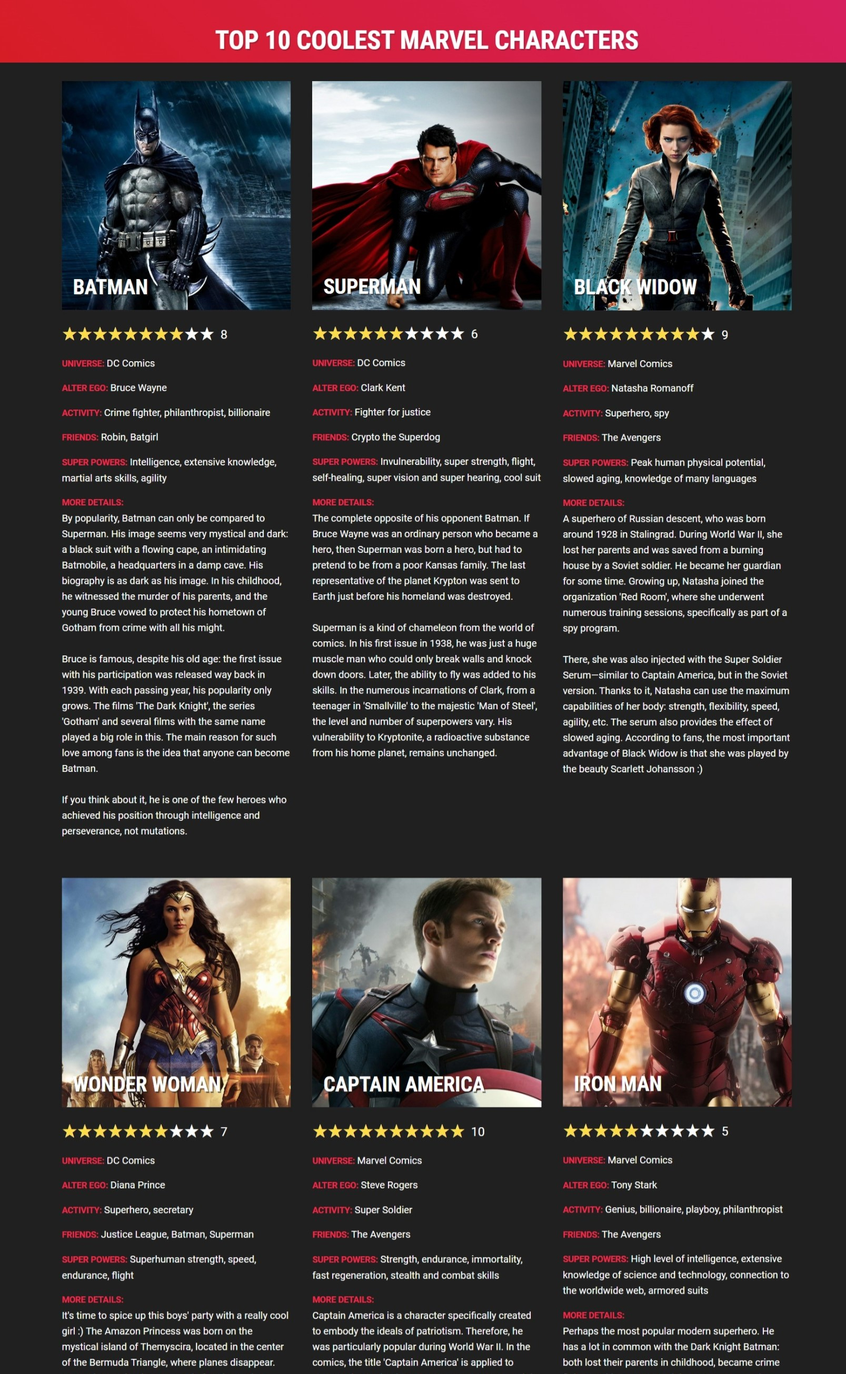
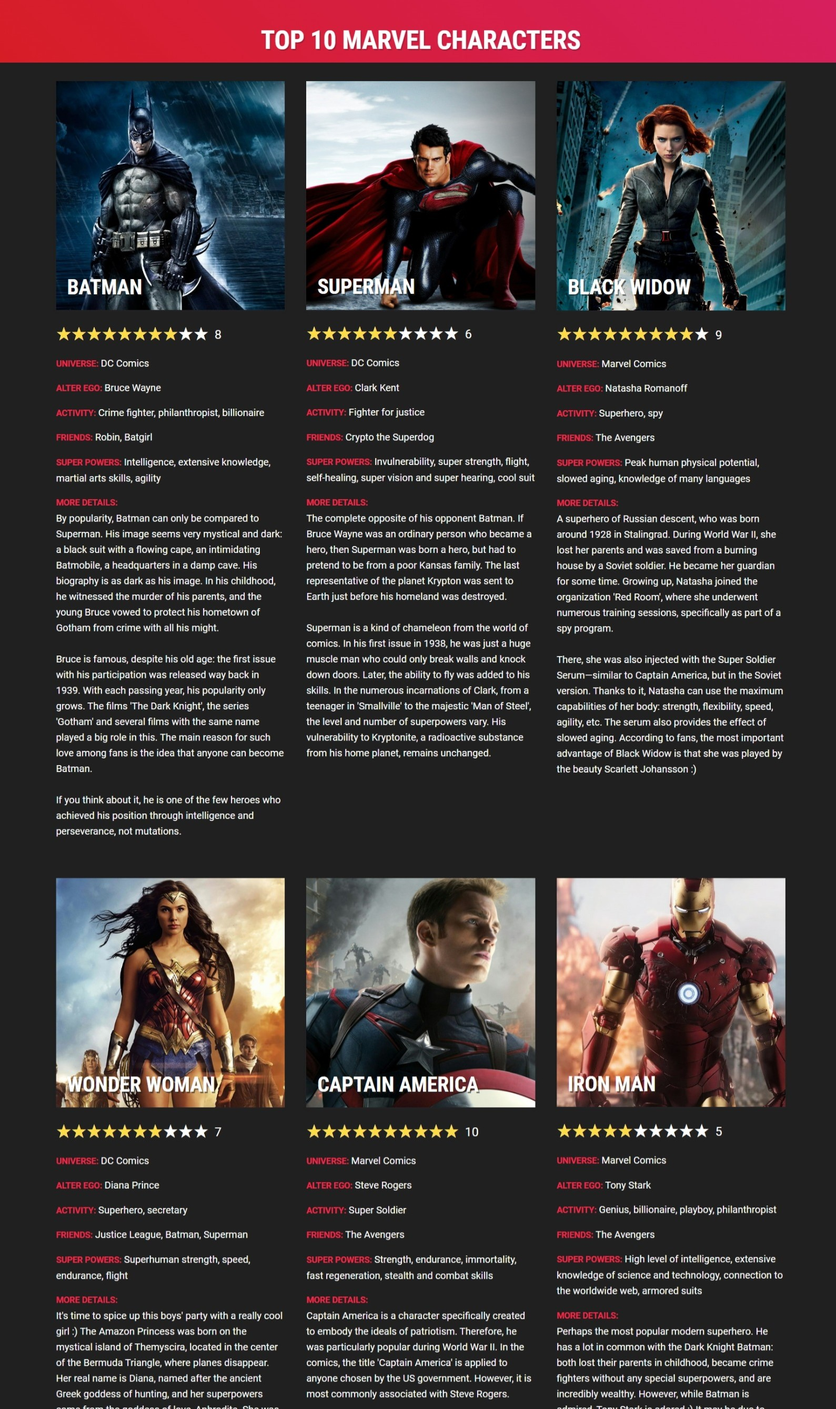
run code through submit check list

Changed region(s): [[0.0617, 0.0, 0.9559, 1.0]]

diff --git a/assets/js/script.js b/assets/js/script.js
@@ -1,114 +1,125 @@
 "use strict";
 
 //JSON WITH INFORMATION ABOUT CHARACTERS
-let json = `[{
-  "name": "Batman",
-  "id": "batman",
-  "image": "assets/img/batman.jpg",
-  "universe": "DC Comics",
-  "alterego": "Bruce Wayne",
-  "activity": "Crime fighter, philanthropist, billionaire",
-  "friends": "Robin, Batgirl",
-  "superpowers": "Intelligence, extensive knowledge, martial arts skills, agility",
-  "moreinfo": "<br>By popularity, Batman can only be compared to Superman. His image seems very mystical and dark: a black suit with a flowing cape, an intimidating Batmobile, a headquarters in a damp cave. His biography is as dark as his image. In his childhood, he witnessed the murder of his parents, and the young Bruce vowed to protect his hometown of Gotham from crime with all his might. <br><br>Bruce is famous, despite his old age: the first issue with his participation was released way back in 1939. With each passing year, his popularity only grows. The films 'The Dark Knight', the series 'Gotham' and several films with the same name played a big role in this. The main reason for such love among fans is the idea that anyone can become Batman. <br><br>If you think about it, he is one of the few heroes who achieved his position through intelligence and perseverance, not mutations."
-  },{
-  "name": "Superman",
-  "id": "superman",
-  "image": "assets/img/superman.jpg",
-  "universe": "DC Comics",
-  "alterego": "Clark Kent",
-  "activity": "Fighter for justice",
-  "friends": "Crypto the Superdog",
-  "superpowers": "Invulnerability, super strength, flight, self-healing, super vision and super hearing, cool suit",
-  "moreinfo": "<br>The complete opposite of his opponent Batman. If Bruce Wayne was an ordinary person who became a hero, then Superman was born a hero, but had to pretend to be from a poor Kansas family. The last representative of the planet Krypton was sent to Earth just before his homeland was destroyed. <br><br>Superman is a kind of chameleon from the world of comics. In his first issue in 1938, he was just a huge muscle man who could only break walls and knock down doors. Later, the ability to fly was added to his skills. In the numerous incarnations of Clark, from a teenager in 'Smallville' to the majestic 'Man of Steel', the level and number of superpowers vary. His vulnerability to Kryptonite, a radioactive substance from his home planet, remains unchanged."
-  },{
-  "name": "Black Widow",
-  "id": "blackwidow",
-  "image": "assets/img/blackwidow.jpg",
-  "universe": "Marvel Comics",
-  "alterego": "Natasha Romanoff",
-  "activity": "Superhero, spy",
-  "friends": "The Avengers",
-  "superpowers": "Peak human physical potential, slowed aging, knowledge of many languages",
-  "moreinfo": "<br>A superhero of Russian descent, who was born around 1928 in Stalingrad. During World War II, she lost her parents and was saved from a burning house by a Soviet soldier. He became her guardian for some time. Growing up, Natasha joined the organization 'Red Room', where she underwent numerous training sessions, specifically as part of a spy program. <br><br>There, she was also injected with the Super Soldier Serum—similar to Captain America, but in the Soviet version. Thanks to it, Natasha can use the maximum capabilities of her body: strength, flexibility, speed, agility, etc. The serum also provides the effect of slowed aging. According to fans, the most important advantage of Black Widow is that she was played by the beauty Scarlett Johansson :)"
-  },{
-  "name": "Wonder Woman",
-  "id": "wonderwoman",
-  "image": "assets/img/wonderwoman.jpg",
-  "universe": "DC Comics",
-  "alterego": "Diana Prince",
-  "activity": "Superhero, secretary",
-  "friends": "Justice League, Batman, Superman",
-  "superpowers": "Superhuman strength, speed, endurance, flight",
-  "moreinfo": "<br>It's time to spice up this boys' party with a really cool girl :) The Amazon Princess was born on the mystical island of Themyscira, located in the center of the Bermuda Triangle, where planes disappear. Her real name is Diana, named after the ancient Greek goddess of hunting, and her superpowers come from the goddess of love, Aphrodite. She was raised in an all-female society, which is why Wonder Woman often appears in culture as a symbol of feminism. <br><br>Diana has super gear: the lasso of truth and the tiara. The first one was forged by the god of fire, Hephaestus, and it never misses. Anyone caught in its loop will inevitably reveal their secrets, remember forgotten things, and even obey commands. The tiara works as a throwing weapon capable of cutting through anything. The crown with a star in the center symbolizes the patriotism of the American heroine and serves as a stylish accessory :)"
-},{
-  "name": "Captain America",
-  "id": "captainamerica",
-  "image": "assets/img/captainamerica.jpg",
-  "universe": "Marvel Comics",
-  "alterego": "Steve Rogers",
-  "activity": "Super Soldier",
-  "friends": "The Avengers",
-  "superpowers": "Strength, endurance, immortality, fast regeneration, stealth and combat skills",
-  "moreinfo": "<br>Captain America is a character specifically created to embody the ideals of patriotism. Therefore, he was particularly popular during World War II. In the comics, the title 'Captain America' is applied to anyone chosen by the US government. However, it is most commonly associated with Steve Rogers. <br><br>Steve was born in 1917 to Irish immigrants Sarah and Joseph Rogers. In his youth, he was very weak and constantly subjected to ridicule by other boys. His Irish roots prevented him from getting into fights. At the beginning of World War II, Steve aspired to join the front lines, but due to his health, he was rejected. <br><br>By fate, he was offered to participate in a top-secret defense project aimed at creating super soldiers. Despite the difficulties during the experiment, the result was successful. Rogers transformed from a frail young man into a true Apollo. Actor Chris Evans did a great job with this role :)"
-},{
-  "name": "Iron Man",
-  "id": "ironman",
-  "image": "assets/img/ironman.jpg",
-  "universe": "Marvel Comics",
-  "alterego": "Tony Stark",
-  "activity": "Genius, billionaire, playboy, philanthropist",
-  "friends": "The Avengers",
-  "superpowers": "High level of intelligence, extensive knowledge of science and technology, connection to the worldwide web, armored suits",
-  "moreinfo": "<br>Perhaps the most popular modern superhero. He has a lot in common with the Dark Knight Batman: both lost their parents in childhood, became crime fighters without any special superpowers, and are incredibly wealthy. However, while Batman is admired, Tony Stark is adored :) It may be due to Robert Downey Jr.'s brilliant acting, who won the role over Nicolas Cage and Tom Cruise, or it may be due to the well-developed character. <br><br>The prototype for the character was Elon Musk and the inventor Howard Hughes. <br><br>Iron Man didn't always wear a red fashionable suit: in its early versions in 1963, it was modestly gray. Unfortunately, in the movie adaptation, the armor was not even made of metal - it was made of plastic and fiberglass."
-},{
-  "name": "Hulk",
-  "id": "hulk",
-  "image": "assets/img/hulk.jpg",
-  "universe": "Marvel Comics",
-  "alterego": "Bruce Banner",
-  "activity": "Superhero, fighter for justice, biochemist",
-  "friends": "The Avengers",
-  "superpowers": "Superhuman strength, speed, endurance, and flight",
-  "moreinfo": "<br>The idea of creating Hulk as a character can be attributed to the science fiction novella 'Strange Case of Dr Jekyll and Mr Hyde', in which a scientist cannot reconcile with his demonic alter ego. Hulk's past is as bad as it gets: Bruce's father suffered from alcoholism and bouts of rage, while his mother tried her best to protect her son from her husband's anger. She died defending her only child from his beatings. <br><br>Carrying the heavy psychological burden throughout his childhood, Bruce grew up as an extremely gifted but introverted young man. Although Bruce couldn't respect his father, he followed in his footsteps in the field of science and chose nuclear physics. During an experiment, he injected himself with a trial serum and exposed himself to a large amount of gamma radiation. Banner transformed into an uncontrollable giant with bulging muscles, smashing everything around him and not understanding what was happening. Thus, the name Hulk became synonymous with people who cannot control themselves."
-},{
-  "name": "Тор",
-  "id": "thor",
-  "image": "assets/img/thor.jpg",
-  "universe": "Marvel Comics",
-  "alterego": "Нет; полное имя — Тор Одинсон",
-  "activity": "Борец за справедливость, скандинавский бог",
-  "friends": "Мстители",
-  "superpowers": "Все, что может бог, плюс молот Мьелнир",
-  "moreinfo": "<br>Персонаж Тора основан на образе одноименного скандинавского бога. Тор во вселенной Marvel — родной сын Одина и древнейшей богини Геи. После рождения сына Один забрал его в Асгард, где растил вместе со своей женой, богиней Фригг. Последнюю Тор всегда считал своей настоящей матерью и лишь много позже узнал правду о своем рождении. <br><br>Стоит сказать, что до нынешнего Тора в исполнении Криса Хемсворта у супергероя было несколько воплощений. В одном из них он погиб в схватке с мифическим змеем Мидгардом. Это привело к Рагнареку — некоему апокалипсису в скандинавской мифологии."
-},{
-  "name": "Дэдпул",
-  "id": "deadpool",
-  "image": "assets/img/deadpool.jpg",
-  "universe": "Marvel Comics",
-  "alterego": "Уэйд Уинстон Уилсон",
-  "activity": "Антигерой, наемник",
-  "friends": "Частично Мстители, Человек-паук, Росомаха",
-  "superpowers": "Высокий болевой порог, регенерация и бессмертие, сверхчеловеческая иммунная система",
-  "moreinfo": "<br>Как и Росомаха из Людей Икс, Дэдпул был подвергнут опытам по программе «Оружие Икс». Ученые попытались исцелить его рак, привив его клеткам способность к регенерации. Как и всегда в комиксах, что-то пошло не так, и Дэдпул остался изуродованным и психически нестабильным. <br><br>Это единственный супергерой из списка, который однозначно не на стороне добра. Дэдпул наслаждается насилием. Первоначально появившись в основной Вселенной Marvel, он получил альтернативные варианты в других реальностях Мультивселенной. Что оставалось неизменным — его циничное, черное чувство юмора: за него Дэдпула прозвали «Болтливым наемником»."
-},{
-  "name": "Человек-паук",
-  "id": "spiderman",
-  "image": "assets/img/spiderman.jpg",
-  "universe": "Marvel Comics",
-  "alterego": "Питер Паркер",
-  "activity": "Борец за справедливость, студент, фотограф",
-  "friends": "Мстители, Фантастическая четверка, Люди Икс",
-  "superpowers": "Сверхчеловеческие рефлексы, «паучье чутье», способность прилепляться к твердым поверхностям, производство паутины",
-  "moreinfo": "<br>Человек-паук родился от потребности Marvel Comics создать героя-подростка. Другие супергерои вроде Бэтмена и Супермена — взрослые мужчины, и целевая аудитория не видела в них примеры для подражания. Пятнадцатилетний Питер Паркер дал понять всем тинейджерам Земли, что можно и злодеев уничтожить, и на красавице жениться. Для этого даже не обязательно быть суперкрасавчиком! Всего лишь нужен укус паучка:). <br><br>Питер не сразу использовал свои силы во благо людей: изначально он хотел делать на них деньги, участвуя в нелегальных боях без правил. Затем его любимый дядя Бен умер от рук грабителя, и подросток поклялся, что очистит свой родной Нью-Йорк ото зла. Однако спустя время подросток понял, что одной клятвы недостаточно и что «с великой силой приходит великая ответственность». <br><br>Кстати, не все суперсилы у Питера появились за счет мутации: парень самостоятельно взломал технологию Тони Старка, после чего заслужил его признание."
-}]`;
+let json = `[
+  {
+    "name": "Batman",
+    "id": "batman",
+    "image": "assets/img/batman.jpg",
+    "universe": "DC Comics",
+    "alterego": "Bruce Wayne",
+    "activity": "Crime fighter, philanthropist, billionaire",
+    "friends": "Robin, Batgirl",
+    "superpowers": "Intelligence, extensive knowledge, martial arts skills, agility",
+    "moreinfo": "<br>By popularity, Batman can only be compared to Superman. His image seems very mystical and dark: a black suit with a flowing cape, an intimidating Batmobile, a headquarters in a damp cave. His biography is as dark as his image. In his childhood, he witnessed the murder of his parents, and the young Bruce vowed to protect his hometown of Gotham from crime with all his might. <br><br>Bruce is famous, despite his old age: the first issue with his participation was released way back in 1939. With each passing year, his popularity only grows. The films 'The Dark Knight', the series 'Gotham' and several films with the same name played a big role in this. The main reason for such love among fans is the idea that anyone can become Batman. <br><br>If you think about it, he is one of the few heroes who achieved his position through intelligence and perseverance, not mutations."
+  },
+  {
+    "name": "Superman",
+    "id": "superman",
+    "image": "assets/img/superman.jpg",
+    "universe": "DC Comics",
+    "alterego": "Clark Kent",
+    "activity": "Fighter for justice",
+    "friends": "Crypto the Superdog",
+    "superpowers": "Invulnerability, super strength, flight, self-healing, super vision and super hearing, cool suit",
+    "moreinfo": "<br>The complete opposite of his opponent Batman. If Bruce Wayne was an ordinary person who became a hero, then Superman was born a hero, but had to pretend to be from a poor Kansas family. The last representative of the planet Krypton was sent to Earth just before his homeland was destroyed. <br><br>Superman is a kind of chameleon from the world of comics. In his first issue in 1938, he was just a huge muscle man who could only break walls and knock down doors. Later, the ability to fly was added to his skills. In the numerous incarnations of Clark, from a teenager in 'Smallville' to the majestic 'Man of Steel', the level and number of superpowers vary. His vulnerability to Kryptonite, a radioactive substance from his home planet, remains unchanged."
+  },
+  {
+    "name": "Black Widow",
+    "id": "blackwidow",
+    "image": "assets/img/blackwidow.jpg",
+    "universe": "Marvel Comics",
+    "alterego": "Natasha Romanoff",
+    "activity": "Superhero, spy",
+    "friends": "The Avengers",
+    "superpowers": "Peak human physical potential, slowed aging, knowledge of many languages",
+    "moreinfo": "<br>A superhero of Russian descent, who was born around 1928 in Stalingrad. During World War II, she lost her parents and was saved from a burning house by a Soviet soldier. He became her guardian for some time. Growing up, Natasha joined the organization 'Red Room', where she underwent numerous training sessions, specifically as part of a spy program. <br><br>There, she was also injected with the Super Soldier Serum—similar to Captain America, but in the Soviet version. Thanks to it, Natasha can use the maximum capabilities of her body: strength, flexibility, speed, agility, etc. The serum also provides the effect of slowed aging. According to fans, the most important advantage of Black Widow is that she was played by the beauty Scarlett Johansson :)"
+  },
+  {
+    "name": "Wonder Woman",
+    "id": "wonderwoman",
+    "image": "assets/img/wonderwoman.jpg",
+    "universe": "DC Comics",
+    "alterego": "Diana Prince",
+    "activity": "Superhero, secretary",
+    "friends": "Justice League, Batman, Superman",
+    "superpowers": "Superhuman strength, speed, endurance, flight",
+    "moreinfo": "<br>It's time to spice up this boys' party with a really cool girl :) The Amazon Princess was born on the mystical island of Themyscira, located in the center of the Bermuda Triangle, where planes disappear. Her real name is Diana, named after the ancient Greek goddess of hunting, and her superpowers come from the goddess of love, Aphrodite. She was raised in an all-female society, which is why Wonder Woman often appears in culture as a symbol of feminism. <br><br>Diana has super gear: the lasso of truth and the tiara. The first one was forged by the god of fire, Hephaestus, and it never misses. Anyone caught in its loop will inevitably reveal their secrets, remember forgotten things, and even obey commands. The tiara works as a throwing weapon capable of cutting through anything. The crown with a star in the center symbolizes the patriotism of the American heroine and serves as a stylish accessory :)"
+  },
+  {
+    "name": "Captain America",
+    "id": "captainamerica",
+    "image": "assets/img/captainamerica.jpg",
+    "universe": "Marvel Comics",
+    "alterego": "Steve Rogers",
+    "activity": "Super Soldier",
+    "friends": "The Avengers",
+    "superpowers": "Strength, endurance, immortality, fast regeneration, stealth and combat skills",
+    "moreinfo": "<br>Captain America is a character specifically created to embody the ideals of patriotism. Therefore, he was particularly popular during World War II. In the comics, the title 'Captain America' is applied to anyone chosen by the US government. However, it is most commonly associated with Steve Rogers. <br><br>Steve was born in 1917 to Irish immigrants Sarah and Joseph Rogers. In his youth, he was very weak and constantly subjected to ridicule by other boys. His Irish roots prevented him from getting into fights. At the beginning of World War II, Steve aspired to join the front lines, but due to his health, he was rejected. <br><br>By fate, he was offered to participate in a top-secret defense project aimed at creating super soldiers. Despite the difficulties during the experiment, the result was successful. Rogers transformed from a frail young man into a true Apollo. Actor Chris Evans did a great job with this role :)"
+  },
+  {
+    "name": "Iron Man",
+    "id": "ironman",
+    "image": "assets/img/ironman.jpg",
+    "universe": "Marvel Comics",
+    "alterego": "Tony Stark",
+    "activity": "Genius, billionaire, playboy, philanthropist",
+    "friends": "The Avengers",
+    "superpowers": "High level of intelligence, extensive knowledge of science and technology, connection to the worldwide web, armored suits",
+    "moreinfo": "<br>Perhaps the most popular modern superhero. He has a lot in common with the Dark Knight Batman: both lost their parents in childhood, became crime fighters without any special superpowers, and are incredibly wealthy. However, while Batman is admired, Tony Stark is adored :) It may be due to Robert Downey Jr.'s brilliant acting, who won the role over Nicolas Cage and Tom Cruise, or it may be due to the well-developed character. <br><br>The prototype for the character was Elon Musk and the inventor Howard Hughes. <br><br>Iron Man didn't always wear a red fashionable suit: in its early versions in 1963, it was modestly gray. Unfortunately, in the movie adaptation, the armor was not even made of metal - it was made of plastic and fiberglass."
+  },
+  {
+    "name": "Hulk",
+    "id": "hulk",
+    "image": "assets/img/hulk.jpg",
+    "universe": "Marvel Comics",
+    "alterego": "Bruce Banner",
+    "activity": "Superhero, fighter for justice, biochemist",
+    "friends": "The Avengers",
+    "superpowers": "Superhuman strength, speed, endurance, and flight",
+    "moreinfo": "<br>The idea of creating Hulk as a character can be attributed to the science fiction novella 'Strange Case of Dr Jekyll and Mr Hyde', in which a scientist cannot reconcile with his demonic alter ego. Hulk's past is as bad as it gets: Bruce's father suffered from alcoholism and bouts of rage, while his mother tried her best to protect her son from her husband's anger. She died defending her only child from his beatings. <br><br>Carrying the heavy psychological burden throughout his childhood, Bruce grew up as an extremely gifted but introverted young man. Although Bruce couldn't respect his father, he followed in his footsteps in the field of science and chose nuclear physics. During an experiment, he injected himself with a trial serum and exposed himself to a large amount of gamma radiation. Banner transformed into an uncontrollable giant with bulging muscles, smashing everything around him and not understanding what was happening. Thus, the name Hulk became synonymous with people who cannot control themselves."
+  },
+  {
+    "name": "Thor",
+    "id": "thor",
+    "image": "assets/img/thor.jpg",
+    "universe": "Marvel Comics",
+    "alterego": "None; full name - Thor Odinson",
+    "activity": "Fighter for justice, Scandinavian god",
+    "friends": "Avengers",
+    "superpowers": "Everything a god can do, plus Mjolnir hammer",
+    "moreinfo": "<br>The character of Thor is based on the image of the Scandinavian god of the same name. Thor in the Marvel universe is the native son of Odin and the ancient goddess Gaea. After the birth of his son, Odin took him to Asgard, where he was raised with his wife, the goddess Frigga. Thor always considered her his real mother and only much later learned the truth about his birth. <br><br>It is worth mentioning that before the current Thor played by Chris Hemsworth, there were several incarnations of the superhero. In one of them, he died in a battle with the mythical serpent Midgard. This led to Ragnarok - a kind of apocalypse in Norse mythology."
+  },
+  {
+    "name": "Deadpool",
+    "id": "deadpool",
+    "image": "assets/img/deadpool.jpg",
+    "universe": "Marvel Comics",
+    "alterego": "Wade Winston Wilson",
+    "activity": "Anti-hero, mercenary",
+    "friends": "Partially Avengers, Spider-Man, Wolverine",
+    "superpowers": "High pain threshold, regeneration and immortality, superhuman immune system",
+    "moreinfo": "<br>Like Wolverine from the X-Men, Deadpool was subjected to experiments as part of the 'Weapon X' program. Scientists tried to cure his cancer by giving his cells the ability to regenerate. As always in the comics, something went wrong, and Deadpool was left disfigured and mentally unstable. <br><br>He is the only superhero on the list who is definitely not on the side of good. Deadpool enjoys violence. Initially appearing in the mainstream Marvel Universe, he got alternative versions in other Multiverse realities. What remained unchanged was his cynical, dark sense of humor: for this, Deadpool was nicknamed 'The Merc with a Mouth'."
+  },
+  {
+    "name": "Spider-Man",
+    "id": "spiderman",
+    "image": "assets/img/spiderman.jpg",
+    "universe": "Marvel Comics",
+    "alterego": "Peter Parker",
+    "activity": "Fighter for justice, student, photographer",
+    "friends": "Avengers, Fantastic Four, X-Men",
+    "superpowers": "Superhuman reflexes, 'spider-sense', ability to stick to solid surfaces, web production",
+    "moreinfo": "<br>Spider-Man was born out of the need for Marvel Comics to create a teenage hero. Other superheroes like Batman and Superman are adult men, and the target audience did not see them as role models. Fifteen-year-old Peter Parker made it clear to all teenagers on Earth that they could both defeat villains and marry a beauty. You don't even have to be super handsome! You just need a spider bite:). <br><br>Peter didn't immediately use his powers for good: initially, he wanted to make money by participating in illegal no-rules fights. Then his beloved Uncle Ben died at the hands of a robber, and the teenager vowed to rid his native New York of evil. However, over time, the teenager realized that one oath was not enough and that 'with great power comes great responsibility'. <br><br>By the way, not all of Peter's superpowers came from mutation: the guy independently hacked Tony Stark's technology, after which he earned his recognition."
+  }
+]`;
 
 //CREATING CHARACTER CARD (on page load)
 document.addEventListener("DOMContentLoaded", function () {
   let characters = JSON.parse(json);
   let charactersContent = "";
 
-  for (let character of characters) {
+  for (const character of characters) {
     charactersContent += `<div class="character__item">
                 <img class="character__image" src="${character.image}" alt="${character.id}"></img>
                 <h2 class="character__name" id="${character.id}">${character.name}</h2>
@@ -217,7 +228,7 @@ document.addEventListener("DOMContentLoaded", function () {
     }
   }
 
-  //RENEWING RATINGS VISIBLE ON THE PAGE  UPON RATING CHANGE IN LOCAL STARAGE
+  //RENEWING RATINGS VISIBLE ON THE PAGE  UPON RATING CHANGES IN LOCAL STORAGE
   function renewRatings() {
     for (const [index] of characters.entries()) {
       document.getElementById(`value_${characters[index].id}`).innerHTML =

diff --git a/index.html b/index.html
@@ -2,8 +2,33 @@
 <html lang="en">
   <head>
     <meta charset="UTF-8" />
-    <meta http-equiv="X-UA-Compatible" content="IE=edge" />
     <meta name="viewport" content="width=device-width, initial-scale=1.0" />
+    <meta http-equiv="X-UA-Compatible" content="IE=edge" />
+    <link
+      rel="apple-touch-icon"
+      sizes="180x180"
+      href="assets/icons/apple-touch-icon.png"
+    />
+    <link
+      rel="icon"
+      type="image/png"
+      sizes="32x32"
+      href="assets/icons/favicon-32x32.png"
+    />
+    <link
+      rel="icon"
+      type="image/png"
+      sizes="16x16"
+      href="assets/icons/favicon-16x16.png"
+    />
+    <link rel="manifest" href="assets/icons/site.webmanifest" />
+    <link
+      rel="mask-icon"
+      href="assets/icons/safari-pinned-tab.svg"
+      color="#5bbad5"
+    />
+    <meta name="msapplication-TileColor" content="#da532c" />
+    <meta name="theme-color" content="#ffffff" />
     <link rel="preconnect" href="https://fonts.googleapis.com" />
     <link rel="preconnect" href="https://fonts.gstatic.com" crossorigin />
     <link
@@ -11,13 +36,12 @@
       rel="stylesheet"
     />
     <link rel="stylesheet" href="assets/css/styles.css" />
-    <link rel="shortcut icon" href="assets/img/logo.png" type="img/png" />
     <title>Top 10 Marvel Characters</title>
   </head>
   <body>
     <div class="wrapper">
       <header class="header">
-        <h1 class="header__title">Top 10 Coolest Marvel Characters</h1>
+        <h1 class="header__title">Top 10 Marvel Characters</h1>
       </header>
       <main class="main">
         <div class="characters__container" id="characters__container"></div>

diff --git a/assets/css/styles.css b/assets/css/styles.css
@@ -1,4 +1,4 @@
-/* Reset base styles  */
+/* ---- RESET BASE STYLES ---- */
 * {
   padding: 0px;
   margin: 0px;
@@ -28,8 +28,7 @@ img {
   height: auto;
 }
 
-/*Styles*/
-
+/* ---- STYLES ---- */
 html,
 body {
   height: 100%;
@@ -117,7 +116,7 @@ body {
   margin: 0px 0px 14px;
 }
 
-/*----RATING----*/
+/* ---- RATING ---- */
 .rating {
   display: flex;
   align-items: flex-end;
@@ -183,7 +182,7 @@ body {
   padding: 0px 0px 0px 10px;
 }
 
-/*----MEDIA QUERIES----*/
+/* ---- MEDIA QUERIES ---- */
 @media screen and (max-width: 767px) {
   .header {
     padding-top: 24px;

diff --git a/README.md b/README.md
@@ -1,8 +1,8 @@
 # Marvel-Characters
 
-_Marvel Characters Cards_ <img width="20px" alt="screen capture" src="../main/assets/img/logo.png"> <img width="20px" alt="screen capture" src="../main/assets/img/logo.png">
+_Marvel Characters Cards_ <img width="20px" alt="screen capture" src="../main/assets/img/logo.png"> <img width="20px" alt="screen capture" src="../main/assets/icons/favicon-32x32.png">
 
-Project built while learning JSON-format. 
+Project built while learning JSON-format.
 
 The project includes:
 
